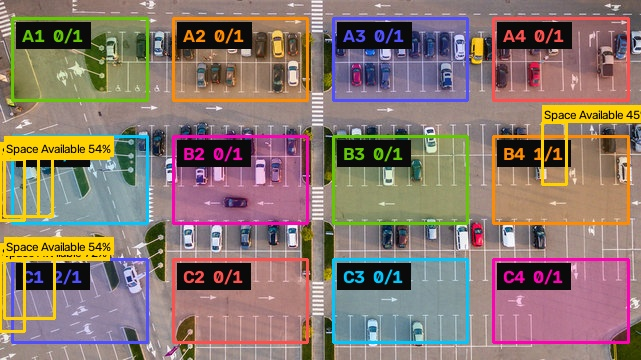
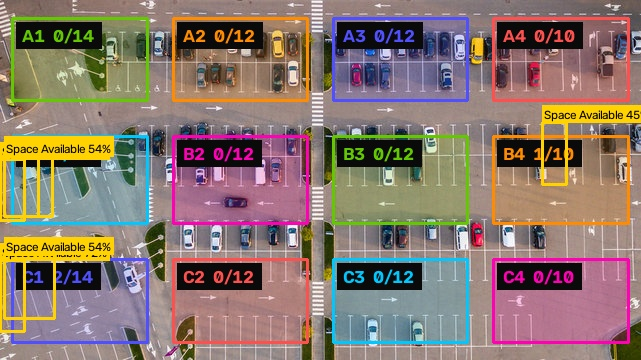
modified

diff --git a/slot_config.py b/slot_config.py
@@ -100,23 +100,23 @@ SLOT_COORDINATES: dict = {
 
 ZONE_CONFIG: dict = {
 
-    # ── Row A (y: 5% – 28%) ────────────────────────────────────────────────────
-    "A1": {"coords": [0.02, 0.05, 0.23, 0.28], "capacity": 1},
-    "A2": {"coords": [0.27, 0.05, 0.48, 0.28], "capacity": 1},
-    "A3": {"coords": [0.52, 0.05, 0.73, 0.28], "capacity": 1},
-    "A4": {"coords": [0.77, 0.05, 0.98, 0.28], "capacity": 1},
+    # ── Row A (y: 5% – 28%) — largest row, widest lanes ───────────────────────
+    "A1": {"coords": [0.02, 0.05, 0.23, 0.28], "capacity": 14},
+    "A2": {"coords": [0.27, 0.05, 0.48, 0.28], "capacity": 12},
+    "A3": {"coords": [0.52, 0.05, 0.73, 0.28], "capacity": 12},
+    "A4": {"coords": [0.77, 0.05, 0.98, 0.28], "capacity": 10},
 
-    # ── Row B (y: 38% – 62%) ────────────────────────────────────────────────────
-    "B1": {"coords": [0.02, 0.38, 0.23, 0.62], "capacity": 1},
-    "B2": {"coords": [0.27, 0.38, 0.48, 0.62], "capacity": 1},
-    "B3": {"coords": [0.52, 0.38, 0.73, 0.62], "capacity": 1},
-    "B4": {"coords": [0.77, 0.38, 0.98, 0.62], "capacity": 1},
+    # ── Row B (y: 38% – 62%) — middle row ─────────────────────────────────────
+    "B1": {"coords": [0.02, 0.38, 0.23, 0.62], "capacity": 14},
+    "B2": {"coords": [0.27, 0.38, 0.48, 0.62], "capacity": 12},
+    "B3": {"coords": [0.52, 0.38, 0.73, 0.62], "capacity": 12},
+    "B4": {"coords": [0.77, 0.38, 0.98, 0.62], "capacity": 10},
 
-    # ── Row C (y: 72% – 95%) ────────────────────────────────────────────────────
-    "C1": {"coords": [0.02, 0.72, 0.23, 0.95], "capacity": 1},
-    "C2": {"coords": [0.27, 0.72, 0.48, 0.95], "capacity": 1},
-    "C3": {"coords": [0.52, 0.72, 0.73, 0.95], "capacity": 1},
-    "C4": {"coords": [0.77, 0.72, 0.98, 0.95], "capacity": 1},
+    # ── Row C (y: 72% – 95%) — bottom row ─────────────────────────────────────
+    "C1": {"coords": [0.02, 0.72, 0.23, 0.95], "capacity": 14},
+    "C2": {"coords": [0.27, 0.72, 0.48, 0.95], "capacity": 12},
+    "C3": {"coords": [0.52, 0.72, 0.73, 0.95], "capacity": 12},
+    "C4": {"coords": [0.77, 0.72, 0.98, 0.95], "capacity": 10},
 }
 
 
@@ -241,41 +241,4 @@ if __name__ == "__main__":
     print(f"  Overlap threshold: {OVERLAP_THRESHOLD}")
     print(f"  Model path       : {MODEL_PATH}")
 
-# ══════════════════════════════════════════════════════════════════════════════
-# ZONE_CONFIG — Generated by draw_slots.py
-# Each zone has relative coords [x1, y1, x2, y2] (0.0 to 1.0) + capacity.
-# Re-run draw_slots.py to update these values.
-# ══════════════════════════════════════════════════════════════════════════════
 
-ZONE_CONFIG: dict = {
-    "A1": {
-        "coords"  : [0.5164, 0.5917, 0.5491, 0.7056],
-        "capacity": 1,
-    },
-}
-
-
-def list_zone_ids() -> list:
-    """Returns sorted list of all zone names from ZONE_CONFIG."""
-    return sorted(ZONE_CONFIG.keys())
-
-
-def get_zone_absolute_coords(zone_id: str, image_width: int, image_height: int) -> list:
-    """Converts relative zone coords → absolute pixel coords."""
-    if zone_id not in ZONE_CONFIG:
-        return None
-    x1f, y1f, x2f, y2f = ZONE_CONFIG[zone_id]["coords"]
-    return [
-        int(x1f * image_width),
-        int(y1f * image_height),
-        int(x2f * image_width),
-        int(y2f * image_height),
-    ]
-
-
-def get_all_zone_absolute_coords(image_width: int, image_height: int) -> dict:
-    """Returns all zone IDs mapped to absolute pixel coords."""
-    return {
-        zid: get_zone_absolute_coords(zid, image_width, image_height)
-        for zid in ZONE_CONFIG
-    }

diff --git a/parking_db.py b/parking_db.py
@@ -403,12 +403,23 @@ def ensure_zones_exist(db_path: str = PARKING_DB_PATH) -> None:
 
     for zone_id, cfg in ZONE_CONFIG.items():
         capacity = cfg.get("capacity", 1)
-        # INSERT OR IGNORE → skips the row entirely if zone_id already exists
+
+        # Try to insert the zone (ignored if it already exists)
         cursor.execute("""
             INSERT OR IGNORE INTO parking_zones
                 (zone_id, capacity, parked_count, available, occ_pct, status, last_updated)
             VALUES (?, ?, 0, ?, 0.0, 'available', ?)
         """, (zone_id, capacity, capacity, timestamp))
+
+        # ALWAYS update the capacity column from ZONE_CONFIG.
+        # This fixes any stale capacity values (e.g. old capacity=1 rows)
+        # without touching parked_count, occ_pct, or status.
+        cursor.execute("""
+            UPDATE parking_zones
+            SET    capacity  = ?,
+                   available = MAX(0, ? - parked_count)
+            WHERE  zone_id   = ?
+        """, (capacity, capacity, zone_id))
 
     conn.commit()
     conn.close()
@@ -475,6 +486,7 @@ def _derive_zone_status(occ_pct: float) -> str:
 def update_zone_count(
     zone_id: str,
     parked_count: int,
+    zone_capacity: int = None,
     db_path: str = PARKING_DB_PATH,
 ) -> bool:
     """
@@ -489,9 +501,11 @@ def update_zone_count(
       last_updated = current timestamp
 
     Parameters:
-        zone_id      (str): Zone name, e.g. 'Zone A'.
-        parked_count (int): Number of vehicles currently detected in this zone.
-        db_path      (str): Database file path.
+        zone_id       (str): Zone name, e.g. 'A1'.
+        parked_count  (int): Number of vehicles currently detected in this zone.
+        zone_capacity (int): Optional — if provided, also writes this as the
+                             zone's capacity (keeps DB in sync with ZONE_CONFIG).
+        db_path       (str): Database file path.
 
     Returns:
         bool: True if zone was found and updated, False otherwise.
@@ -507,7 +521,9 @@ def update_zone_count(
         conn.close()
         return False   # Zone not found in DB
 
-    capacity = row[0]
+    # Use caller-supplied capacity (from ZONE_CONFIG) if given; else use DB value.
+    # This keeps capacity in sync with slot_config.py on every detection write.
+    capacity = zone_capacity if zone_capacity is not None else row[0]
 
     # Clamp parked_count to valid range
     parked_count = max(0, min(parked_count, capacity))
@@ -518,13 +534,14 @@ def update_zone_count(
 
     cursor.execute("""
         UPDATE parking_zones
-        SET    parked_count = ?,
+        SET    capacity     = ?,
+               parked_count = ?,
                available    = ?,
                occ_pct      = ?,
                status       = ?,
                last_updated = ?
         WHERE  zone_id = ?
-    """, (parked_count, available, occ_pct, status, timestamp, zone_id))
+    """, (capacity, parked_count, available, occ_pct, status, timestamp, zone_id))
 
     success = cursor.rowcount > 0
     conn.commit()

diff --git a/app.py b/app.py
@@ -533,11 +533,11 @@ def render_zone_grid(zones: list) -> None:
                 f'<div class="zone-card {card_css}">'
                 f'<div class="zone-name">&#x1F17F;&#xFE0F; {zone_id}</div>'
                 f'<div class="zone-count" style="color:{count_color};">{parked}</div>'
-                f'<div class="zone-count-label">of {capacity} parked</div>'
+                f'<div class="zone-count-label">OF {capacity} PARKED</div>'
                 f'<div class="zone-bar-bg">'
                 f'<div class="zone-bar-fill" style="width:{bar_width:.1f}%; background:{bar_color};"></div>'
                 f'</div>'
-                f'<div style="font-size:0.75rem; color:#94a3b8; margin-bottom:8px;">{occ_pct:.1f}% full</div>'
+                f'<div style="font-size:0.75rem; color:#94a3b8; margin-bottom:8px;">{occ_pct:.1f}% occupied</div>'
                 f'<span class="zone-badge {badge_css}">{badge_text}</span>'
                 f'<div class="zone-avail">{available} {spaces_word} free</div>'
                 f'</div>'

diff --git a/detection_engine.py b/detection_engine.py
@@ -212,7 +212,10 @@ def sync_zone_counts_to_db(zone_counts: dict) -> dict:
     failed  = []
 
     for zone_id, count in zone_counts.items():
-        ok = update_zone_count(zone_id, count)
+        # Pull the authoritative capacity from ZONE_CONFIG so every DB write
+        # stays in sync with slot_config.py (even if the DB row is stale).
+        zone_cap = ZONE_CONFIG.get(zone_id, {}).get("capacity", None)
+        ok = update_zone_count(zone_id, count, zone_capacity=zone_cap)
         if ok:
             updated += 1
         else:
